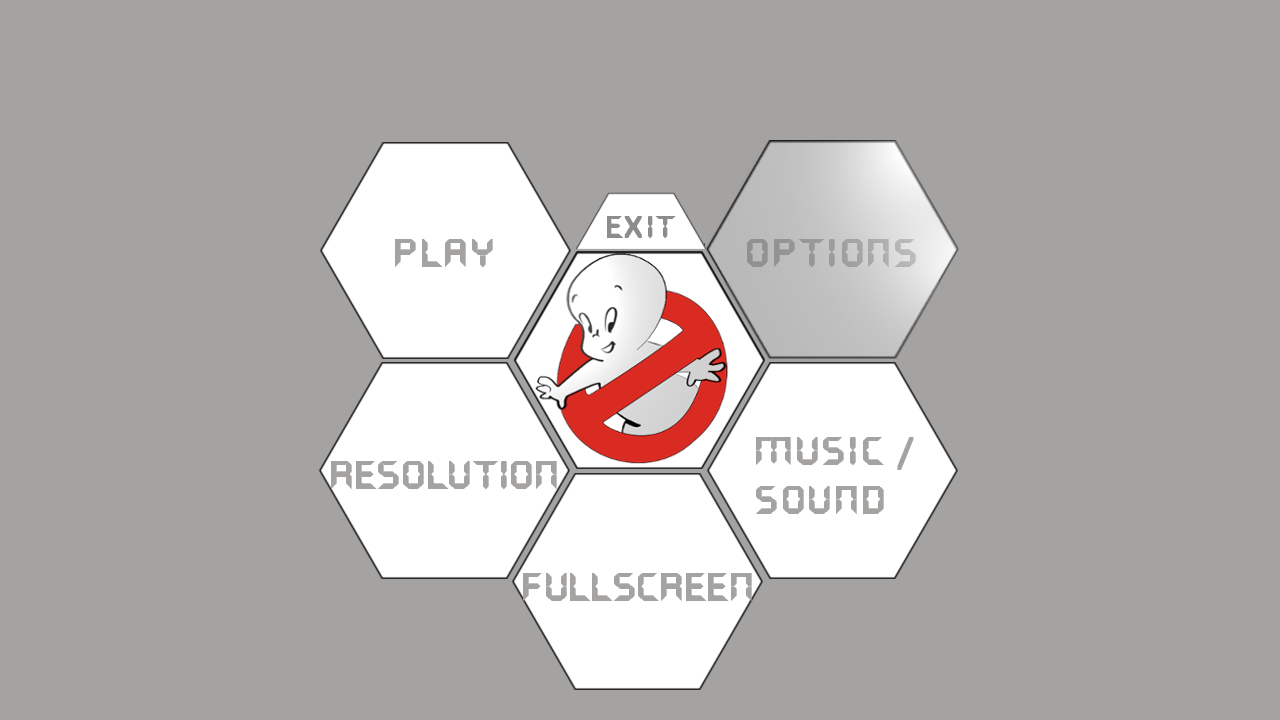
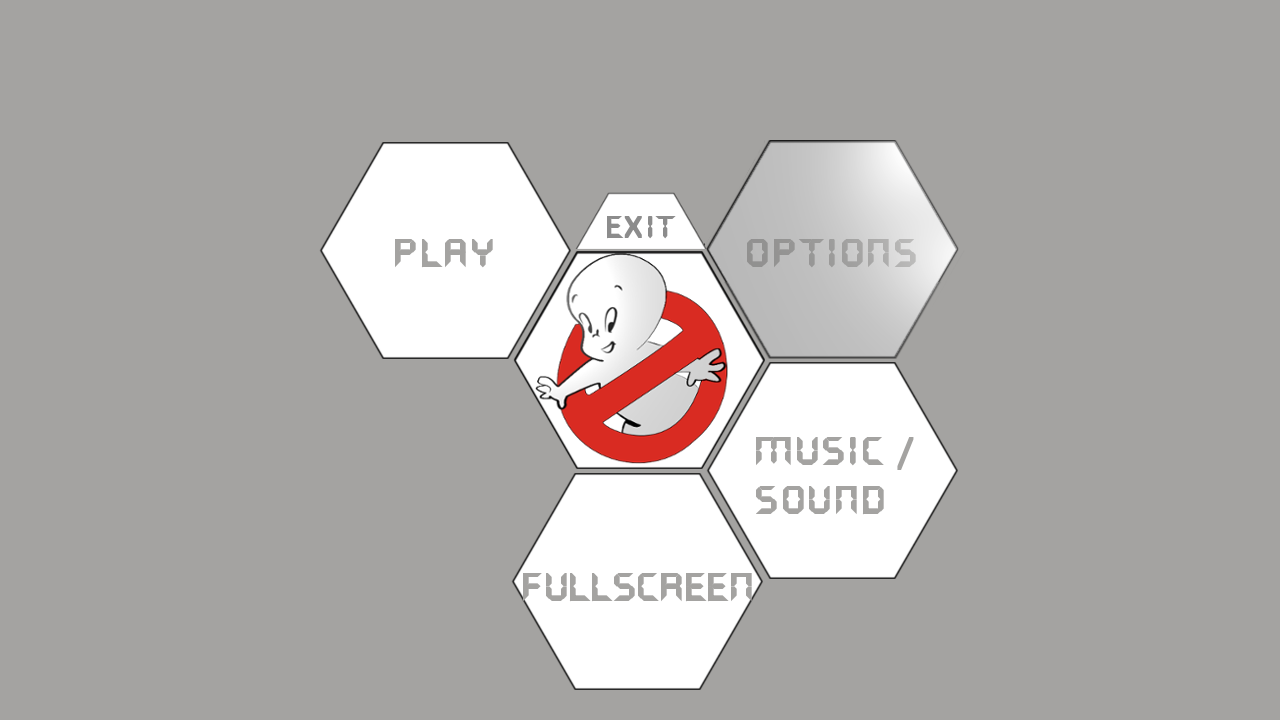
enlev carre noir et option resolution

Changed region(s): [[0.25, 0.4889, 0.4688, 0.825]]

diff --git a/Projet_2.0/Projet_2.0/Menus/Menu_Base.cs b/Projet_2.0/Projet_2.0/Menus/Menu_Base.cs
@@ -15,17 +15,17 @@ namespace Projet_2._0
         Rectangle mouseClick;
         MouseState mouseState, previousmouseState;
         KeyboardState keyboardstate, previouskeyboardstate;
-        
+
 
 
         public Menu_Base(Texture2D Text_Menu_base)
         {
-            
+
             this.Text_Menu_base = Text_Menu_base;
             Bouton_Play = new Rectangle(Res.gI().ScaleX(500), Res.gI().ScaleY(210), Res.gI().ScaleX(225), Res.gI().ScaleY(310));
-            Bouton_Options = new Rectangle(Res.gI().ScaleX(995),Res.gI().ScaleY(210), Res.gI().ScaleX(255), Res.gI().ScaleY(310));
+            Bouton_Options = new Rectangle(Res.gI().ScaleX(995), Res.gI().ScaleY(210), Res.gI().ScaleX(255), Res.gI().ScaleY(310));
             Bouton_Exit = new Rectangle(Res.gI().ScaleX(755), Res.gI().ScaleY(280), Res.gI().ScaleX(165), Res.gI().ScaleY(80));
-            
+
 
         }
 
@@ -67,12 +67,7 @@ namespace Projet_2._0
 
         public void Draw(SpriteBatch spritebatch)
         {
-
-            spritebatch.Draw(Text_Menu_base, new Rectangle(0, 0,  Res.gI().ScaleX(1680), Res.gI().ScaleY(1050)), Color.White);
-            spritebatch.Draw(Text_Menu_base, new Rectangle(Res.gI().ScaleX(500), Res.gI().ScaleY(210), Res.gI().ScaleX(225), Res.gI().ScaleY(310)), Color.Black);
-            spritebatch.Draw(Text_Menu_base, new Rectangle(Res.gI().ScaleX(995),Res.gI().ScaleY(210), Res.gI().ScaleX(255), Res.gI().ScaleY(310)) , Color.Black);
-            spritebatch.Draw(Text_Menu_base, new Rectangle(Res.gI().ScaleX(755), Res.gI().ScaleY(280), Res.gI().ScaleX(165), Res.gI().ScaleY(80)), Color.Black);
-            
+            spritebatch.Draw(Text_Menu_base, new Rectangle(0, 0, Res.gI().ScaleX(1680), Res.gI().ScaleY(1050)), Color.White);
         }
 
     }

diff --git a/Projet_2.0/Projet_2.0/Menus/Menu_Play.cs b/Projet_2.0/Projet_2.0/Menus/Menu_Play.cs
@@ -72,10 +72,6 @@ namespace Projet_2._0
         public void Draw(SpriteBatch spritebatch)
         {
             spritebatch.Draw(Text_Menu_Play, new Rectangle(0, 0, Res.gI().ScaleX(1680), Res.gI().ScaleY(1050)), Color.White);
-            spritebatch.Draw(Text_Menu_Play, new Rectangle(Res.gI().ScaleX(955), Res.gI().ScaleY(210), Res.gI().ScaleX(225), Res.gI().ScaleY(310)), Color.Black);
-            spritebatch.Draw(Text_Menu_Play, new Rectangle(Res.gI().ScaleX(500), Res.gI().ScaleY(525), Res.gI().ScaleX(225), Res.gI().ScaleY(310)), Color.Black);
-            spritebatch.Draw(Text_Menu_Play, new Rectangle(Res.gI().ScaleX(755), Res.gI().ScaleY(680), Res.gI().ScaleX(225), Res.gI().ScaleY(310)), Color.Black);
-            spritebatch.Draw(Text_Menu_Play, new Rectangle(Res.gI().ScaleX(755), Res.gI().ScaleY(280), Res.gI().ScaleX(165), Res.gI().ScaleY(80)), Color.Black);
         }
     }
 }
